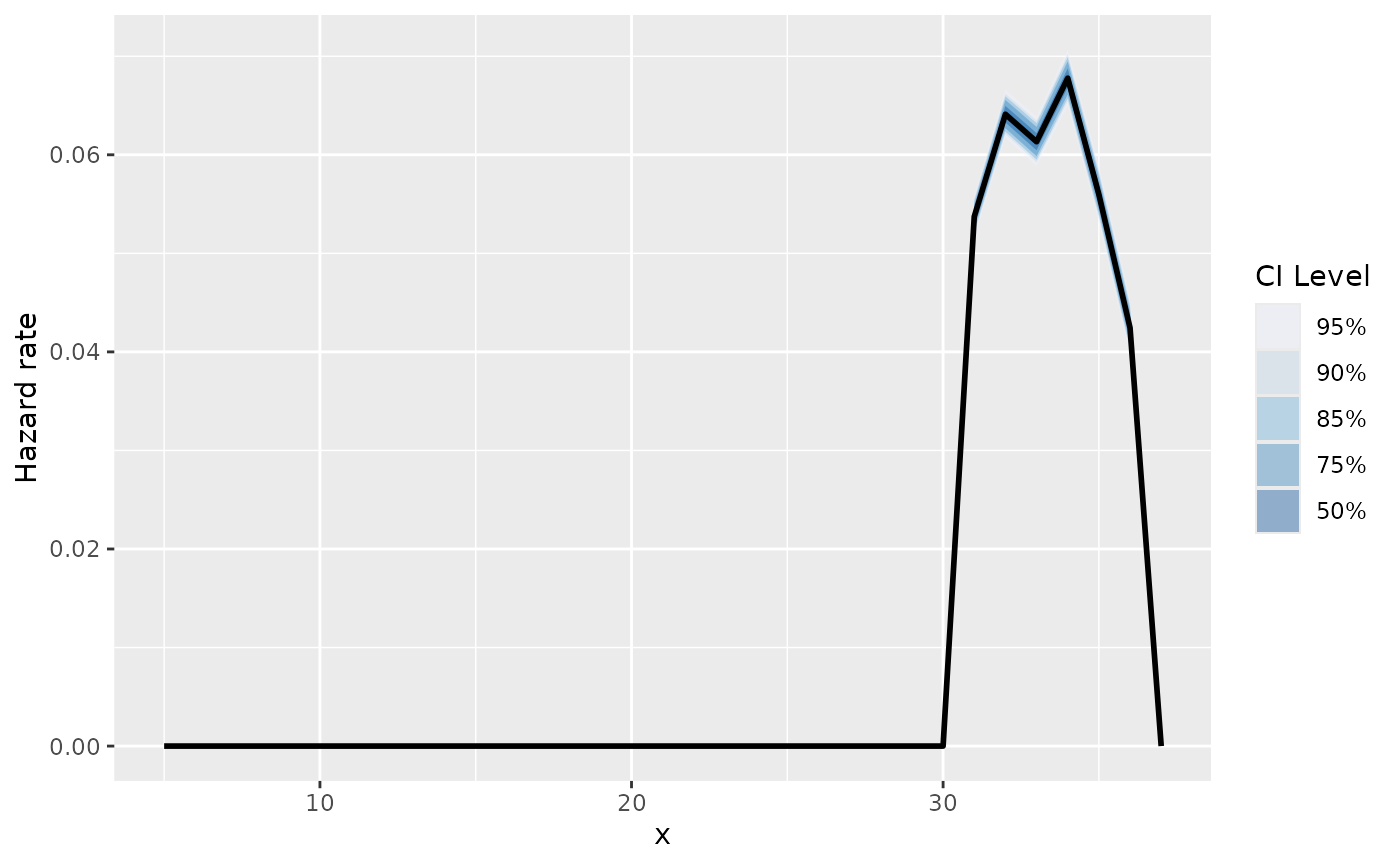
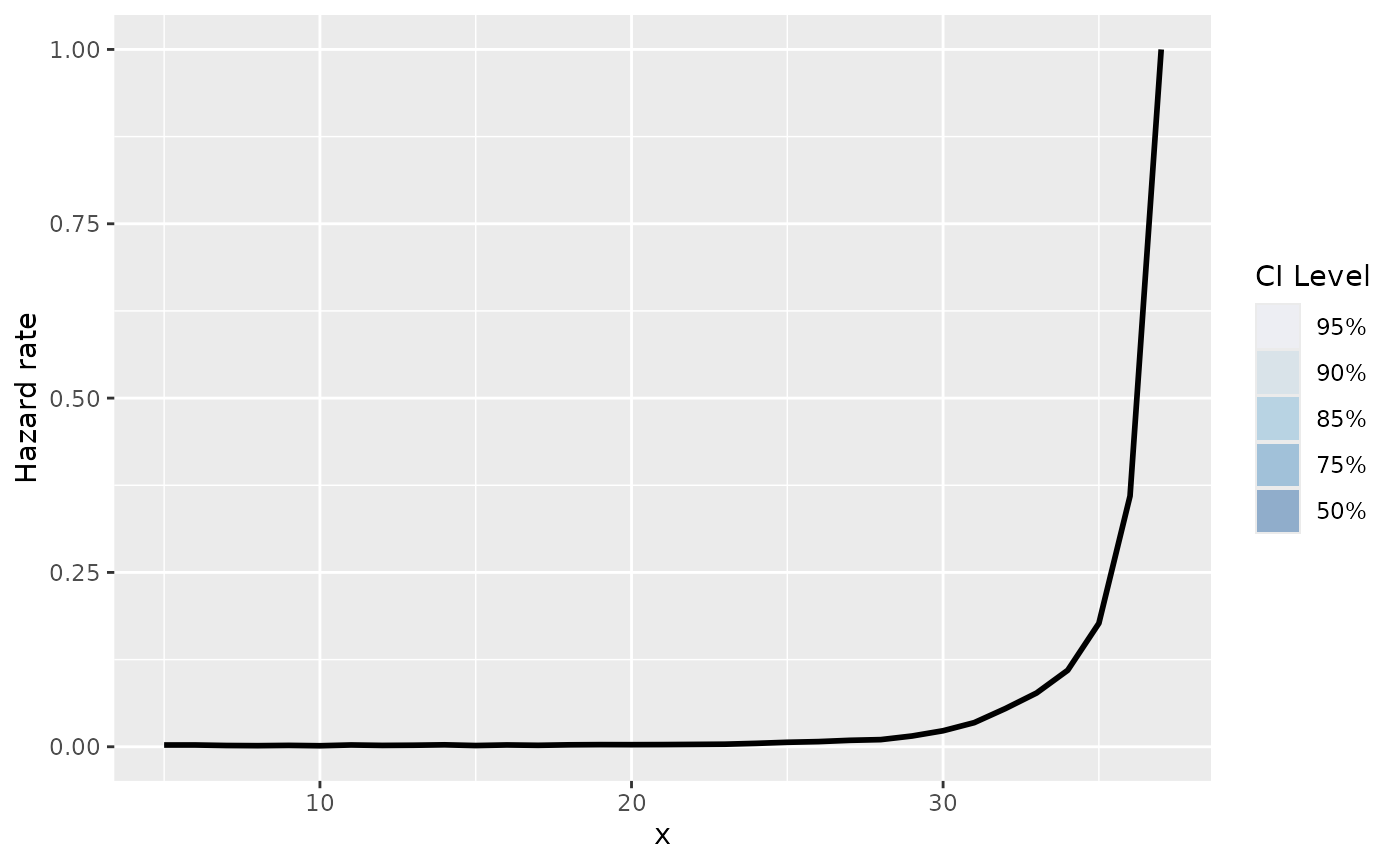
Deploying to gh-pages from @ lcgodoy/abslife@73eadeae4b3707c9ef2a975621a6f11a87a260e9 🚀

diff --git a/articles/get-started.html b/articles/get-started.html
@@ -221,25 +221,21 @@ indicates an observed event.</p>
 <div class="sourceCode" id="cb11"><pre class="downlit sourceCode r">
 <code class="sourceCode R"><span><span class="va">mbalt_hazard</span> <span class="op">&lt;-</span> <span class="fu"><a href="../reference/estimate_hazard.html">estimate_hazard</a></span><span class="op">(</span>lifetime <span class="op">=</span> <span class="va">mbalt</span><span class="op">$</span><span class="va">Zi</span>,</span>
 <span>                                trunc_time <span class="op">=</span> <span class="va">mbalt</span><span class="op">$</span><span class="va">Yi</span>,</span>
-<span>                                censoring <span class="op">=</span> <span class="va">mbalt</span><span class="op">$</span><span class="va">Di</span>,</span>
+<span>                                censoring <span class="op">=</span> <span class="fl">1</span> <span class="op">-</span> <span class="va">mbalt</span><span class="op">$</span><span class="va">Di</span>,</span>
 <span>                                ci_level <span class="op">=</span> <span class="fl">0.95</span>,</span>
-<span>                                carry_hazard <span class="op">=</span> <span class="cn">FALSE</span><span class="op">)</span> <span class="co">## need </span></span>
-<span><span class="co">#&gt; Warning in check_censored(lifetime, censoring_indicator, support_lifetime_rv):</span></span>
-<span><span class="co">#&gt; Warning: Detected censored observations at the maximum limit of the support</span></span>
-<span><span class="co">#&gt; (lifetime == max(support_lifetime_rv)). This may lead to identifiability issues</span></span>
-<span><span class="co">#&gt; or unstable hazard estimates at the tail.</span></span></code></pre></div>
+<span>                                carry_hazard <span class="op">=</span> <span class="cn">FALSE</span><span class="op">)</span> <span class="co">## need </span></span></code></pre></div>
 <p>The output structure remains consistent with the previous
 example.</p>
 <div class="sourceCode" id="cb12"><pre class="downlit sourceCode r">
 <code class="sourceCode R"><span><span class="fu"><a href="https://rdrr.io/r/base/summary.html" class="external-link">summary</a></span><span class="op">(</span><span class="va">mbalt_hazard</span><span class="op">)</span></span>
-<span><span class="co">#&gt;    lifetime     hazard se_log_hazard   lower_ci  upper_ci</span></span>
-<span><span class="co">#&gt; 1         5 0.00000000    0.00000000 0.00000000 0.0000000</span></span>
-<span><span class="co">#&gt; 6        10 0.00000000    0.00000000 0.00000000 0.0000000</span></span>
-<span><span class="co">#&gt; 11       15 0.00000000    0.00000000 0.00000000 0.0000000</span></span>
-<span><span class="co">#&gt; 16       20 0.00000000    0.00000000 0.00000000 0.0000000</span></span>
-<span><span class="co">#&gt; 21       25 0.00000000    0.00000000 0.00000000 0.0000000</span></span>
-<span><span class="co">#&gt; 26       30 0.00000000    0.00000000 0.00000000 0.0000000</span></span>
-<span><span class="co">#&gt; 31       35 0.05596574    0.02623112 0.05316113 0.0589183</span></span></code></pre></div>
+<span><span class="co">#&gt;    lifetime      hazard se_log_hazard     lower_ci    upper_ci</span></span>
+<span><span class="co">#&gt; 1         5 0.002508511    0.26692582 0.0014866487 0.004232760</span></span>
+<span><span class="co">#&gt; 6        10 0.001434144    0.19985653 0.0009693366 0.002121832</span></span>
+<span><span class="co">#&gt; 11       15 0.001737138    0.14573824 0.0013055144 0.002311463</span></span>
+<span><span class="co">#&gt; 16       20 0.002970103    0.09698424 0.0024559434 0.003591903</span></span>
+<span><span class="co">#&gt; 21       25 0.006408170    0.06229942 0.0056715882 0.007240414</span></span>
+<span><span class="co">#&gt; 26       30 0.022951205    0.03163976 0.0215711690 0.024419531</span></span>
+<span><span class="co">#&gt; 31       35 0.177075260    0.01376845 0.1723606643 0.181918815</span></span></code></pre></div>
 <p>The plotting functions also work out of the box:</p>
 <div class="sourceCode" id="cb13"><pre class="downlit sourceCode r">
 <code class="sourceCode R"><span><span class="fu"><a href="https://rdrr.io/r/graphics/plot.default.html" class="external-link">plot</a></span><span class="op">(</span><span class="va">mbalt_hazard</span><span class="op">)</span></span></code></pre></div>

diff --git a/news/index.html b/news/index.html
@@ -43,7 +43,8 @@
 
     <div class="section level2">
 <h2 class="pkg-version" data-toc-text="0.1.3" id="abslife-013">abslife 0.1.3<a class="anchor" aria-label="anchor" href="#abslife-013"></a></h2>
-<ul><li><p>Function to calculate expected lifetime.</p></li>
+<ul><li><p>Fixed problem with censoring in the vignette</p></li>
+<li><p>Function to calculate expected lifetime.</p></li>
 <li><p><code>prep_ggplot</code> function for customized plotting.</p></li>
 <li><p>Changing default colors</p></li>
 <li><p>Improved printing methods</p></li>

diff --git a/articles/get-started.md b/articles/get-started.md
@@ -171,27 +171,23 @@ indicates an observed event.
 ``` r
 mbalt_hazard <- estimate_hazard(lifetime = mbalt$Zi,
                                 trunc_time = mbalt$Yi,
-                                censoring = mbalt$Di,
+                                censoring = 1 - mbalt$Di,
                                 ci_level = 0.95,
                                 carry_hazard = FALSE) ## need 
-#> Warning in check_censored(lifetime, censoring_indicator, support_lifetime_rv):
-#> Warning: Detected censored observations at the maximum limit of the support
-#> (lifetime == max(support_lifetime_rv)). This may lead to identifiability issues
-#> or unstable hazard estimates at the tail.
 ```
 
 The output structure remains consistent with the previous example.
 
 ``` r
 summary(mbalt_hazard)
-#>    lifetime     hazard se_log_hazard   lower_ci  upper_ci
-#> 1         5 0.00000000    0.00000000 0.00000000 0.0000000
-#> 6        10 0.00000000    0.00000000 0.00000000 0.0000000
-#> 11       15 0.00000000    0.00000000 0.00000000 0.0000000
-#> 16       20 0.00000000    0.00000000 0.00000000 0.0000000
-#> 21       25 0.00000000    0.00000000 0.00000000 0.0000000
-#> 26       30 0.00000000    0.00000000 0.00000000 0.0000000
-#> 31       35 0.05596574    0.02623112 0.05316113 0.0589183
+#>    lifetime      hazard se_log_hazard     lower_ci    upper_ci
+#> 1         5 0.002508511    0.26692582 0.0014866487 0.004232760
+#> 6        10 0.001434144    0.19985653 0.0009693366 0.002121832
+#> 11       15 0.001737138    0.14573824 0.0013055144 0.002311463
+#> 16       20 0.002970103    0.09698424 0.0024559434 0.003591903
+#> 21       25 0.006408170    0.06229942 0.0056715882 0.007240414
+#> 26       30 0.022951205    0.03163976 0.0215711690 0.024419531
+#> 31       35 0.177075260    0.01376845 0.1723606643 0.181918815
 ```
 
 The plotting functions also work out of the box:

diff --git a/news/index.md b/news/index.md
@@ -2,6 +2,8 @@
 
 ## abslife 0.1.3
 
+- Fixed problem with censoring in the vignette
+
 - Function to calculate expected lifetime.
 
 - `prep_ggplot` function for customized plotting.
